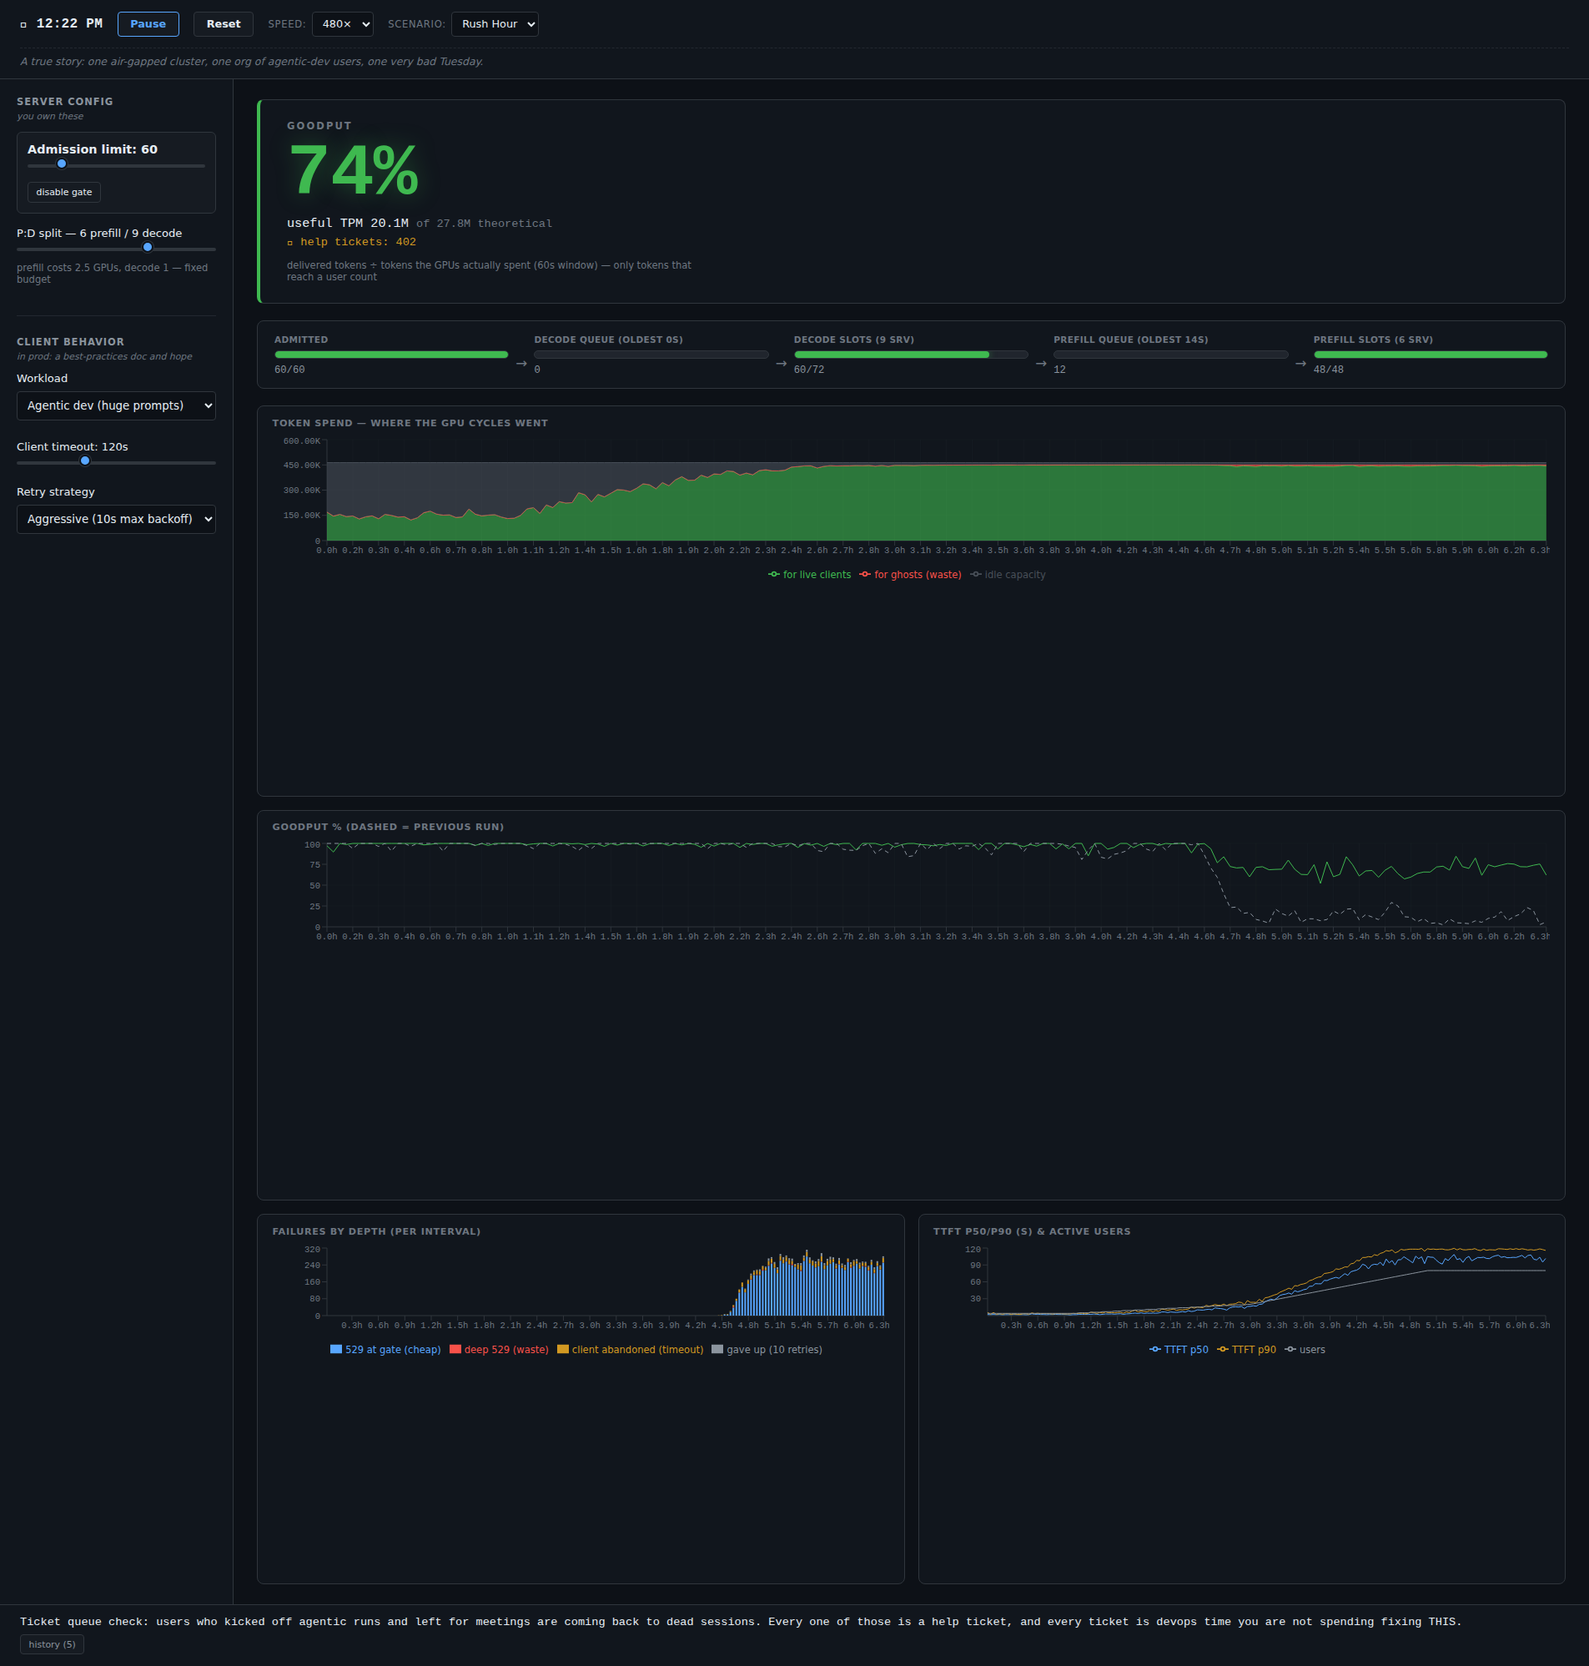
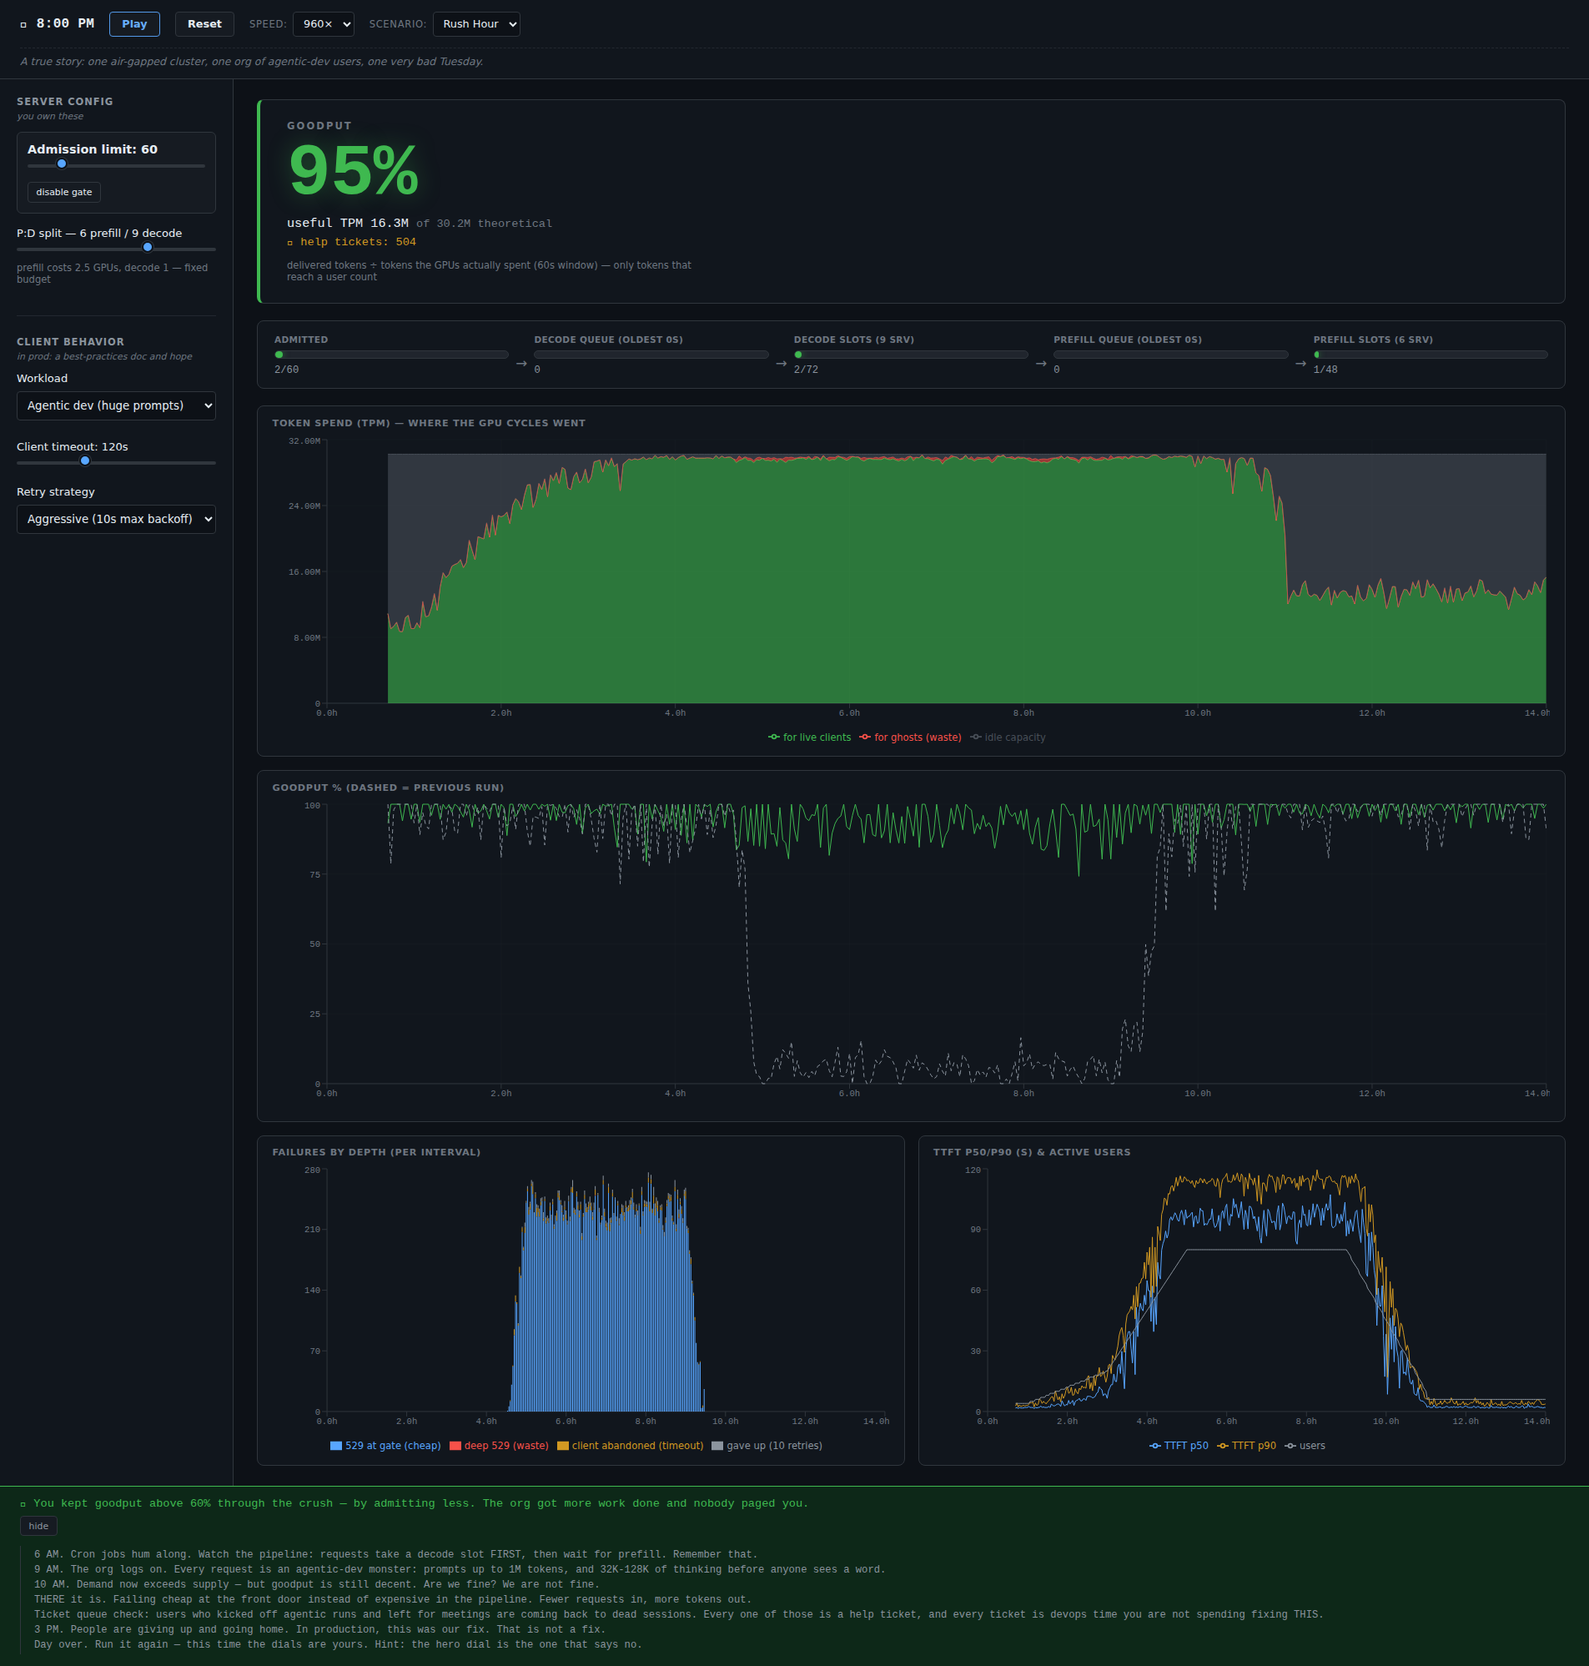
fix(ui): chart pointer skew, queue bar scale, TPM spend chart, full-day time axis
Pointer skew root cause: the CSS override kept ResponsiveContainer's fixed
pixel heights inside a shrinkable flex box, so on shorter viewports (or a
zoomed 4K display) the SVG was squeezed below its height attribute and
uniformly scaled by its viewBox -- drawn narrower while Recharts hit-tested
the unscaled layout. ResponsiveContainer now gets height="100%" from a
flex: 1 1 0 box, so the SVG is always rendered at the size it was measured
at (and charts finally fill tall viewports).

Time axis is numeric and pinned to the scenario's full duration: the tooltip
snaps at most half a bucket, ticks stop crowding, and the previous run's
ghost line shows the whole day from t=0.

Queue bars had cap={0} and were hard-wired to 0%; they now scale against the
slot pool they feed (admitted scales to decode slots when the gate is off).
Token spend chart reports TPM, the headline's unit.

Spec gains a dated Amendments section; README screenshot regenerated.

Claude-Session: https://claude.ai/code/session_01GpMKSdFGGCwsyJSKcK4jUb

diff --git a/src/ui/components/ChartsPanel.tsx b/src/ui/components/ChartsPanel.tsx
@@ -7,48 +7,84 @@ import type { GhostPoint } from '../useSimulation';
 import type { ChartPoint } from '../chartData';
 import { fmtTok2 } from '../format';
 
-interface Props { points: ChartPoint[]; ghost: GhostPoint[] | null }
+interface Props { points: ChartPoint[]; ghost: GhostPoint[] | null; durationSec: number }
 
-const fmtT = (t: number) => `${(t / 3600).toFixed(1)}h`;
+const H = 3600;
+const fmtMin = (t: number) => `${Math.round(t / 60)}m`;
+const fmtHour = (t: number) => `${(t / H).toFixed(1)}h`;
 const fmtPct2 = (v: number) => `${Number(v).toFixed(2)}%`;
+const fmtTpm = (v: number) => `${fmtTok2(v)} TPM`;
 
-function ChartsPanelImpl({ points, ghost }: Props) {
-  const merged = useMemo(() => points.map((p) => {
-    let ghostGoodputPct: number | null = null;
+/**
+ * Time axis: numeric, and for a finite scenario pinned to the whole run from
+ * t=0 — like a dashboard with a fixed time range, the day fills in left to
+ * right. A category axis stretches however many points exist across the full
+ * width, so early in a run the tooltip snaps to a bucket tens of pixels from
+ * the pointer; with real time on the axis the snap is at most half a bucket.
+ */
+function timeAxis(durationSec: number, lastT: number) {
+  const span = Number.isFinite(durationSec) ? durationSec : lastT;
+  const fmt = span < 2 * H ? fmtMin : fmtHour;
+  if (!Number.isFinite(durationSec)) return { domain: ['dataMin', 'dataMax'] as const, ticks: undefined, fmt };
+  const step = [60, 120, 300, 600, 1800, H, 2 * H, 4 * H].find((s) => durationSec / s <= 8) ?? 4 * H;
+  const ticks: number[] = [];
+  for (let t = 0; t <= durationSec + 1; t += step) ticks.push(t);
+  return { domain: [0, Math.max(durationSec, lastT)] as const, ticks, fmt };
+}
+
+function ChartsPanelImpl({ points, ghost, durationSec }: Props) {
+  const lastT = points.length ? points[points.length - 1].t : 0;
+  const axis = useMemo(() => timeAxis(durationSec, lastT), [durationSec, lastT]);
+  // Goodput chart: current run, plus the previous run's line for the part of the
+  // day this run has not reached yet — the ghost is the whole previous day.
+  const goodputData = useMemo(() => {
+    const merged = points.map((p) => {
+      let ghostGoodputPct: number | null = null;
+      if (ghost) {
+        let bestDist = 120;
+        for (const g of ghost) {
+          const d = Math.abs(g.t - p.t);
+          if (d < bestDist) { bestDist = d; ghostGoodputPct = g.goodputPct; }
+        }
+      }
+      return { t: p.t, goodputPct: p.goodputPct as number | null, ghostGoodputPct };
+    });
     if (ghost) {
-      let bestDist = 120;
       for (const g of ghost) {
-        const d = Math.abs(g.t - p.t);
-        if (d < bestDist) { bestDist = d; ghostGoodputPct = g.goodputPct; }
+        if (g.t > lastT) merged.push({ t: g.t, goodputPct: null, ghostGoodputPct: g.goodputPct });
       }
     }
-    return { ...p, ghostGoodputPct };
-  }), [points, ghost]);
+    return merged;
+  }, [points, ghost, lastT]);
+  const xAxis = (
+    <XAxis dataKey="t" type="number" domain={axis.domain as unknown as [number, number]}
+      ticks={axis.ticks} tickFormatter={axis.fmt} allowDataOverflow />
+  );
   return (
     <div className="charts">
       <div className="chart-box">
-        <h4>Token spend — where the GPU cycles went</h4>
-        <ResponsiveContainer width="100%" height={180}>
-          <AreaChart data={merged}>
+        <h4>Token spend (TPM) — where the GPU cycles went</h4>
+        <ResponsiveContainer width="100%" height="100%">
+          <AreaChart data={points}>
             <CartesianGrid strokeOpacity={0.15} />
-            <XAxis dataKey="t" tickFormatter={fmtT} />
+            {xAxis}
             <YAxis tickFormatter={fmtTok2} />
-            <Tooltip formatter={(value: number, name: string) => [fmtTok2(value), name]} />
+            <Tooltip labelFormatter={axis.fmt} formatter={(value: number, name: string) => [fmtTpm(value), name]} />
             <Legend />
-            <Area stackId="1" dataKey="liveTokPerSec" name="for live clients" fill="#3fb950" stroke="#3fb950" isAnimationActive={false} />
-            <Area stackId="1" dataKey="ghostTokPerSec" name="for ghosts (waste)" fill="#f85149" stroke="#f85149" isAnimationActive={false} />
-            <Area stackId="1" dataKey="idleTokPerSec" name="idle capacity" fill="#484f58" stroke="#484f58" isAnimationActive={false} />
+            <Area stackId="1" dataKey="liveTpm" name="for live clients" fill="#3fb950" stroke="#3fb950" isAnimationActive={false} />
+            <Area stackId="1" dataKey="ghostTpm" name="for ghosts (waste)" fill="#f85149" stroke="#f85149" isAnimationActive={false} />
+            <Area stackId="1" dataKey="idleTpm" name="idle capacity" fill="#484f58" stroke="#484f58" isAnimationActive={false} />
           </AreaChart>
         </ResponsiveContainer>
       </div>
       <div className="chart-box">
         <h4>Goodput % (dashed = previous run)</h4>
-        <ResponsiveContainer width="100%" height={140}>
-          <LineChart data={merged}>
+        <ResponsiveContainer width="100%" height="100%">
+          <LineChart data={goodputData}>
             <CartesianGrid strokeOpacity={0.15} />
-            <XAxis dataKey="t" tickFormatter={fmtT} />
+            {xAxis}
             <YAxis domain={[0, 100]} />
-            <Tooltip formatter={(value: number, name: string) => [fmtPct2(value), name]} />
+            <Tooltip labelFormatter={axis.fmt} formatter={(value: number, name: string) => [fmtPct2(value), name]} />
             <Line dataKey="goodputPct" name="goodput %" dot={false} stroke="#3fb950" isAnimationActive={false} />
             <Line dataKey="ghostGoodputPct" name="previous run" dot={false} stroke="#8b949e" strokeDasharray="5 4" connectNulls isAnimationActive={false} />
           </LineChart>
@@ -57,9 +93,9 @@ function ChartsPanelImpl({ points, ghost }: Props) {
       <div className="chart-row">
         <div className="chart-box half">
           <h4>Failures by depth (per interval)</h4>
-          <ResponsiveContainer width="100%" height={140}>
-            <BarChart data={merged}>
-              <XAxis dataKey="t" tickFormatter={fmtT} /><YAxis /><Tooltip /><Legend />
+          <ResponsiveContainer width="100%" height="100%">
+            <BarChart data={points}>
+              {xAxis}<YAxis /><Tooltip labelFormatter={axis.fmt} /><Legend />
               <Bar stackId="f" dataKey="shallow529" name="529 at gate (cheap)" fill="#58a6ff" isAnimationActive={false} />
               <Bar stackId="f" dataKey="deep529" name="deep 529 (waste)" fill="#f85149" isAnimationActive={false} />
               <Bar stackId="f" dataKey="abandons" name="client abandoned (timeout)" fill="#d29922" isAnimationActive={false} />
@@ -69,9 +105,9 @@ function ChartsPanelImpl({ points, ghost }: Props) {
         </div>
         <div className="chart-box half">
           <h4>TTFT p50/p90 (s) & active users</h4>
-          <ResponsiveContainer width="100%" height={140}>
-            <LineChart data={merged}>
-              <XAxis dataKey="t" tickFormatter={fmtT} /><YAxis /><Tooltip /><Legend />
+          <ResponsiveContainer width="100%" height="100%">
+            <LineChart data={points}>
+              {xAxis}<YAxis /><Tooltip labelFormatter={axis.fmt} /><Legend />
               <Line dataKey="ttftP50" name="TTFT p50" dot={false} stroke="#58a6ff" isAnimationActive={false} />
               <Line dataKey="ttftP90" name="TTFT p90" dot={false} stroke="#d29922" isAnimationActive={false} />
               <Line dataKey="activeUsers" name="users" dot={false} stroke="#8b949e" isAnimationActive={false} />

diff --git a/src/ui/components/PipelineStrip.tsx b/src/ui/components/PipelineStrip.tsx
@@ -5,13 +5,23 @@ function ageTone(oldestSec: number, timeoutSec: number): string {
   return f > 0.8 ? 'bad' : f > 0.5 ? 'warn' : 'good';
 }
 
-function Bar({ label, value, cap, tone }: { label: string; value: number; cap: number; tone: string }) {
-  const pct = cap > 0 ? Math.min(100, (100 * value) / cap) : 0;
+interface BarProps {
+  label: string; value: number; tone: string;
+  /** Hard capacity: fill = value/cap and the number reads "value/cap". */
+  cap?: number;
+  /** Reference scale for unbounded stages (queues): fill = value/scale, capped at full. */
+  scale?: number;
+}
+
+function Bar({ label, value, cap, scale, tone }: BarProps) {
+  const ref = cap ?? scale ?? 0;
+  const pct = ref > 0 ? Math.min(100, (100 * value) / ref) : 0;
+  const showCap = cap !== undefined && cap > 0 && cap < 100_000;
   return (
     <div className={`stage ${tone}`}>
       <span className="stage-label">{label}</span>
       <div className="bar"><div className="fill" style={{ width: `${pct}%` }} /></div>
-      <span className="stage-num">{value}{cap > 0 && cap < 100_000 ? `/${cap}` : ''}</span>
+      <span className="stage-num">{value}{showCap ? `/${cap}` : ''}</span>
     </div>
   );
 }
@@ -19,17 +29,22 @@ function Bar({ label, value, cap, tone }: { label: string; value: number; cap: n
 export function PipelineStrip({ snap, queueTimeoutSec }: { snap: PipelineSnapshot; queueTimeoutSec: number }) {
   return (
     <div className="pipeline-strip">
-      <Bar label="admitted" value={snap.admittedCount} cap={snap.admissionLimit} tone="good" />
+      {/* Gate OFF (limit 100000): no cap to fill against, so scale to the decode slot pool. */}
+      {snap.admissionLimit < 100_000
+        ? <Bar label="admitted" value={snap.admittedCount} cap={snap.admissionLimit} tone="good" />
+        : <Bar label="admitted (gate off)" value={snap.admittedCount} scale={snap.decodeSlotsTotal} tone="good" />}
       <span className="arrow">→</span>
+      {/* Queues are unbounded, so the fill is scaled against the slots they feed:
+          a full bar means the backlog is at least one whole slot pool deep. */}
       <Bar label={`decode queue (oldest ${snap.oldestDecodeWaitSec.toFixed(0)}s)`}
-        value={snap.decodeQueueDepth} cap={0}
+        value={snap.decodeQueueDepth} scale={snap.decodeSlotsTotal}
         tone={ageTone(snap.oldestDecodeWaitSec, queueTimeoutSec)} />
       <span className="arrow">→</span>
       <Bar label={`decode slots (${snap.decodeServers} srv)`} value={snap.decodeSlotsHeld}
         cap={snap.decodeSlotsTotal} tone="good" />
       <span className="arrow">→</span>
       <Bar label={`prefill queue (oldest ${snap.oldestPrefillWaitSec.toFixed(0)}s)`}
-        value={snap.prefillQueueDepth} cap={0}
+        value={snap.prefillQueueDepth} scale={snap.prefillSlotsTotal}
         tone={ageTone(snap.oldestPrefillWaitSec, queueTimeoutSec)} />
       <span className="arrow">→</span>
       <Bar label={`prefill slots (${snap.prefillServers} srv)`} value={snap.prefillSlotsBusy}

diff --git a/src/ui/chartData.ts b/src/ui/chartData.ts
@@ -3,8 +3,9 @@ import type { TickMetrics } from '../engine/types';
 
 export interface ChartPoint {
   t: number;
-  liveTokPerSec: number; ghostTokPerSec: number; idleTokPerSec: number;
-  goodputPct: number; deliveredTokPerSec: number; activeUsers: number;
+  // token spend in TPM, the unit the headline reports (useful TPM of theoretical)
+  liveTpm: number; ghostTpm: number; idleTpm: number;
+  goodputPct: number; deliveredTpm: number; activeUsers: number;
   ttftP50: number; ttftP90: number;
   shallow529: number; deep529: number; abandons: number; retries: number; giveUps: number;
   decodeQueueDepth: number; prefillQueueDepth: number;
@@ -30,13 +31,14 @@ export function bucketize(
     }
     const last = history[i + perBucket - 1];
     const computed = live + ghost;
+    const perMin = 60 / bucketSec;
     out.push({
       t: last.t,
-      liveTokPerSec: live / bucketSec,
-      ghostTokPerSec: ghost / bucketSec,
-      idleTokPerSec: Math.max(0, (max - live - ghost) / bucketSec),
+      liveTpm: live * perMin,
+      ghostTpm: ghost * perMin,
+      idleTpm: Math.max(0, (max - live - ghost) * perMin),
       goodputPct: computed === 0 ? 100 : Math.min(100, (100 * delivered) / computed),
-      deliveredTokPerSec: delivered / bucketSec,
+      deliveredTpm: delivered * perMin,
       activeUsers: last.activeUsers,
       ttftP50: percentile(ttft, 50), ttftP90: percentile(ttft, 90),
       shallow529: shallow, deep529: deepDq + deepPq, abandons, retries, giveUps,

diff --git a/src/index.css b/src/index.css
@@ -483,11 +483,16 @@ main {
   min-height: 140px;
 }
 
-/* let the fixed pixel heights set by ResponsiveContainer's props flex to fill
-   whatever room the CSS box above actually has — this is what removes the
-   dead zone under the charts on tall viewports */
+/* The chart box, not the chart, owns the height: ResponsiveContainer is given
+   height="100%" and this flex item hands it whatever room the column has
+   (basis 0 so its size never depends on its own content). The SVG is then
+   always drawn at the size it was measured at. The previous override kept
+   fixed pixel heights inside a shrinkable box, so on short viewports the SVG
+   was squeezed and uniformly scaled by its viewBox — drawn narrower and
+   centered while Recharts hit-tested the unscaled layout: the pointer and the
+   highlighted point disagreed. */
 .chart-box .recharts-responsive-container {
-  flex: 1 1 auto !important;
+  flex: 1 1 0 !important;
   width: 100% !important;
   height: auto !important;
   min-height: 0 !important;

diff --git a/src/ui/chartData.test.ts b/src/ui/chartData.test.ts
@@ -12,15 +12,16 @@ function mk(t: number): TickMetrics {
 }
 
 describe('bucketize', () => {
-  it('aggregates ticks into per-second rates', () => {
+  it('aggregates ticks into per-minute rates (TPM)', () => {
     const h: TickMetrics[] = [];
     for (let i = 1; i <= 40; i++) h.push(mk(i * 0.25)); // 10 sim-sec
     const pts = bucketize(h, 2, 100);
     expect(pts.length).toBe(5);
     const p = pts[0];
-    expect(p.liveTokPerSec).toBeCloseTo(100);   // 25 tok * 8 ticks / 2 sec
-    expect(p.ghostTokPerSec).toBeCloseTo(100);
-    expect(p.idleTokPerSec).toBeCloseTo(200);   // 100 max * 8 / 2 - live - ghost
+    expect(p.liveTpm).toBeCloseTo(6000);   // 25 tok * 8 ticks / 2 sec * 60
+    expect(p.ghostTpm).toBeCloseTo(6000);
+    expect(p.idleTpm).toBeCloseTo(12000);  // (100 max * 8 - live - ghost) / 2 sec * 60
+    expect(p.deliveredTpm).toBeCloseTo(2400);
     expect(p.goodputPct).toBeCloseTo(100 * 80 / 400);
     expect(p.deep529).toBe(8);
     expect(p.shallow529).toBe(8);

diff --git a/src/App.tsx b/src/App.tsx
@@ -70,10 +70,10 @@ export default function App() {
             helpTickets={api.sim.totalGiveUps}
           />
           <PipelineStrip snap={api.sim.snapshot()} queueTimeoutSec={api.sim.constants.queueTimeoutSec} />
-          <ChartsPanel points={points} ghost={api.ghost} />
+          <ChartsPanel points={points} ghost={api.ghost} durationSec={api.scenario.durationSec} />
         </main>
       </div>
-      <NarratorBar log={api.narratorLog} finished={api.finished} won={api.won} win={api.scenario.win} />
+      <NarratorBar log={api.narratorLog} finished={api.finished} verdict={api.verdict} />
     </div>
   );
 }

diff --git a/docs/superpowers/specs/2026-08-30-goodput-simulator-design.md b/docs/superpowers/specs/2026-08-30-goodput-simulator-design.md
@@ -264,3 +264,31 @@ ops voice and is polishable late without code changes.
   shift user behavior slowly and partially.
 - Multi-tenant fairness / per-team rate limits (LiteLLM-gateway experience).
 - Per-user retry-cap overrides (the 1,000-retry power user vs the default-10 majority).
+
+## 12. Amendments (post-review, 2026-08-31)
+
+From interactive testing after the v1 merge; each amends the section named.
+
+- **§3.4 Workloads — thinking budgets.** The org ran every agentic-dev
+  request with a 32K-minimum / 128K-maximum thinking budget. Output tokens for
+  the agentic-dev preset are now the visible answer (200–2K) *plus* 32K–128K of
+  thinking, modeled as budget = spend (uniform). Thinking is decode work the
+  user never reads but the GPU must produce before the first visible token.
+- **§4 Frozen constants — decode tok/s.** Re-calibrated 1,500 → 6,000 per
+  decode server with thinking in the workload; at 1,500 the cluster is
+  decode-bound for every configuration and the admission gate can no longer
+  matter. All five §7 invariants hold at 6,000 (`collapse.test.ts`).
+- **§6 The Spike — recalibrated** to base 35 users, 200 at peak, a 10-minute
+  spike (as originally written here; the 3-minute trim no longer tips a
+  thinking-heavy cluster), 22 sim-minutes total. The gate claim in the closing
+  narrator line is now asserted by inv5.
+- **§6 Rush Hour win condition — three headline numbers, not one.** Goodput %
+  alone is gameable: P9:D1 leaves 8 decode slots that act as a free admission
+  gate (100% goodput, ~9% of theoretical delivered), and a gate of 20–40 keeps
+  goodput while burying devops in 3–7K help tickets. A win now requires, over
+  9 AM–3 PM: goodput ≥ 60%, useful TPM ≥ 60% of theoretical, and ≤ 1,000
+  help tickets — the three numbers the headline already shows (inv6).
+- **§5 Console.** Token-spend chart reports TPM (the headline's unit); queue
+  bars scale against the slot pool they feed; time axis is real time pinned to
+  the scenario's full duration (tooltip snaps to a bucket, not across the
+  chart, and the previous run's ghost line shows the whole day from t=0).
